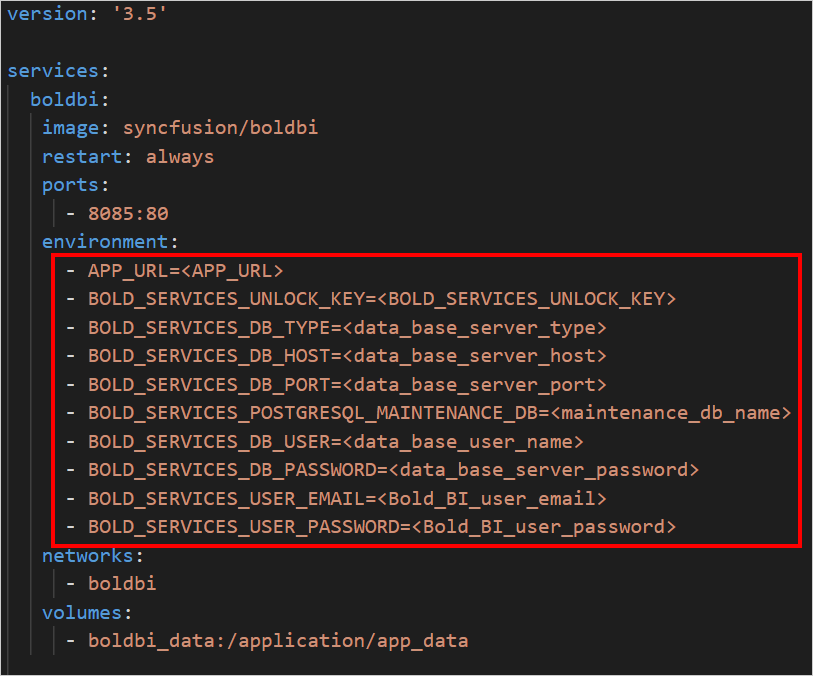
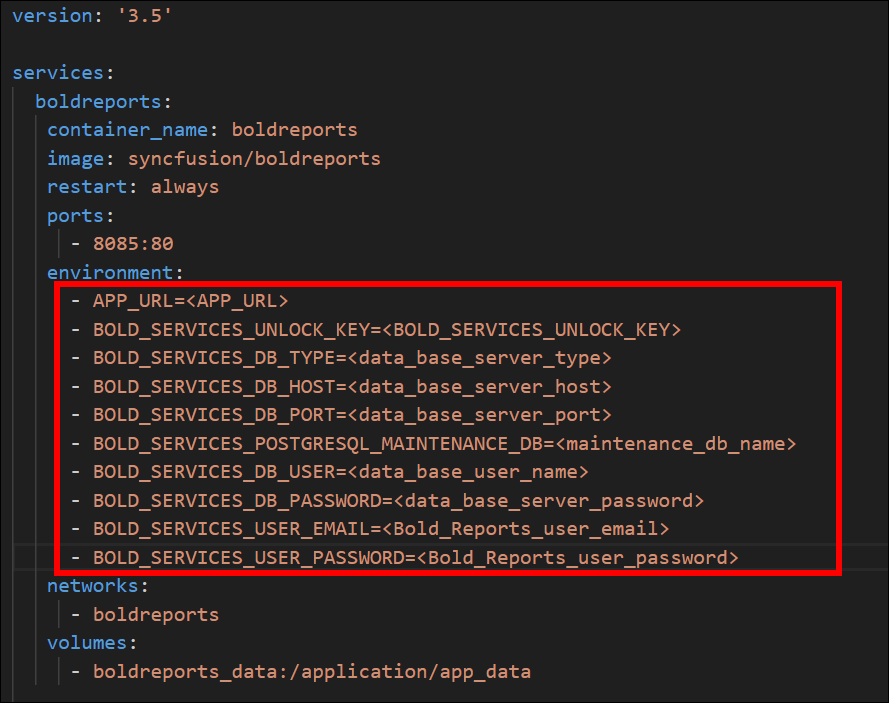
added new md file

Changed region(s): [[0.0, 0.0932, 1.0, 1.0], [0.0, 0.0, 0.2153, 0.0311], [0.984, 0.0, 1.0, 0.0311]]

diff --git a/docs/how-to-deploy-bold-reports-using-existing-db-server.md b/docs/how-to-deploy-bold-reports-using-existing-db-server.md
@@ -4,18 +4,48 @@ In the following section, we are going to run the Bold Reports application by pa
 
 1. Download docker compose file using the following command.
    ```sh
-   curl -o docker-compose.yml "https://raw.githubusercontent.com/boldbi/boldbi-docker/main/deploy/single-container-with-env-variable/docker-compose.yml"
+   curl -o docker-compose.yml "https://raw.githubusercontent.com/boldreports/bold-reports-docker/main/deploy/single-container-with-env-variable/docker-compose.yml"
    ```
 2. Open the docker compose file and fill the mandatory fields - **APP_BASE_URL, Unlock Key** and **Database details**
-   ![docker-compose-database-variable](../docs/images/database-env-value.png)
+   ![docker-compose-database-variable](/docs/images/database-env-value.png)
 
-   APP_BASE_URL Guidance:
+   **APP_BASE_URL Guidance:**
 
    Provide the HTTP scheme for APP_BASE_URL value. For example,
    * Provide the HTTP scheme for APP_BASE_URL value. For example,
       `http://example.com`
       `http://<public_ip_address>`
-   * For `Windows` and `MacOS` use either http://host.docker.internal or http://localhost. Docker Desktop provides host.docker.internal and gateway.docker.internal DNS for communication between docker applications and host machine. Please make sure that the host.docker.internal DNS has your IPv4 address mapped in your hosts file on Windows(C:\Windows\System32\drivers\etc\hosts).
+   * For `Windows` and `MacOS` use either http://host.docker.internal or http://localhost. Docker Desktop provides `host.docker.internal` and `gateway.docker.internal` DNS for communication between docker applications and host machine. Please make sure that the host.docker.internal DNS has your IPv4 address mapped in your hosts file on Windows(C:\Windows\System32\drivers\etc\hosts).
+   * For `Linux` use the Machine Public IP address as the value for APP_URL with the HTTP scheme.
 
+   **Environment variable Usage:**
 
+   | Name               | Required    | Description |
+   | -------------      | ------------- | ------------- |
+   | `BOLD_SERVICES_UNLOCK_KEY`                 | Yes    | License key for activating Bold Reports. Please refer to this document to download the key.<br />If you don't have the download key option, please create a support ticket here.|
+   | `BOLD_SERVICES_DB_TYPE`                    | Yes    | Type of database server can be used for configuring Bold Reports.<br /><br /The following DB types are accepted:<br />1. mssql – Microsoft SQL Server/Azure SQL Database<br />2. postgresql – PostgreSQL Server<br />3. mysql – MySQL/MariaDB Server|
+   | `BOLD_SERVICES_DB_HOST`                    | Yes    | Name of the Database Server|
+   | `BOLD_SERVICES_DB_PORT`                    | Yes    | The system will use the following default port numbers based on the database server type.<br />PostgrSQL – 5234<br /><MySQL -3306><br /><br />Please specify the port number for your database server if it is configured on a different port.<br /><br />For MS SQL Server, this parameter is not necessary.|
+   | `BOLD_SERVICES_DB_USER`                    | Yes    | Username for the database server <br /><br />Please refer to this documentation for information on the user's permissions.|
+   | `BOLD_SERVICES_DB_PASSWORD`                | Yes    | The database user's password|
+   | `BOLD_SERVICES_DB_NAME`                    | No     | 	If the database name is not specified, the system will create a new database called bold services.<br /><br />If you specify a database name, it should already exist on the server.|
+   | `BOLD_SERVICES_POSTGRESQL_MAINTENANCE_DB`  | Yes    | For PostgreSQL DB Servers, this is an optional parameter.<br />The system will use the database name `postgres` by default.<br />If your database server uses a different default database, please provide it here.|
+   | `BOLD_SERVICES_DB_ADDITIONAL_PARAMETERS`   | No     | If your database server requires additional connection string parameters, include them here.<br /><br />Connection string parameters can be found in the official document.<br />My SQL: https://dev.mysql.com/doc/connector-net/en/connector-net-8-0-connection-options.html<br />PostgreSQL: https://www.npgsql.org/doc/connection-string-parameters.html<br />MS SQL: https://docs.microsoft.com/en-us/dotnet/api/system.data.sqlclient.sqlconnection.connectionstring<br /><br /><b>Note:</b> A semicolon(;) should be used to separate multiple parameters.|
+   | `BOLD_SERVICES_USER_EMAIL`                 | Yes     | It should be a valid email.|
+   | `BOLD_SERVICES_USER_PASSWORD`              | Yes     | It should meet our password requirements.<br /><br /><b>Note:</b>Password must meet the following requirements. It must contain at least 6 characters, 1 uppercase character, 1 lowercase character, 1 numeric character, 1 special character|
 
+3. Run docker compose up command.
+   ```sh
+   docker-compose up -d
+   ```
+   ![docker-compose-up](./images/docker-compose-up.png)
+   > **Note:** The docker volumes `boldservices_data` and `db_data` persists data of Bold Reports and PostgreSQL respectively. Learn more about docker volumes
+
+4. After running the command, access the Bold Reports App by entering APP_URL in a browser.At this point, Bold Reports should be running in `<app_base_url>:8085` (as appropriate)
+   ![docker-startup](../docs/images/docker-startup.png)
+   > **Note:** The BoldBI site is not immediately available on port 8085 because the containers are still being initialized and may take a couple of minutes for the first load.
+
+## Shutdown and Cleanup
+The command `docker-compose down` removes the containers and default network, but preserves the volumes of Bold Reports and PostgreSQL.
+
+The command `docker-compose down --volumes` removes the containers, default network, and all the volumes.

diff --git a/README.md b/README.md
@@ -61,10 +61,9 @@ The above Bold Reports image can be deployed using Docker or Docker Compose. In 
     ![docker-compose-variable](docs/images/docker-compose-variable.png)
   
   3. Run the command below. This command will start the Bold Reports and Postgres SQL containers and display the Bold Reports logs to provide information about the installation status of the Bold Reports application.
-    ```sh
-    docker-compose up -d; docker-compose logs -f boldreports
-    ```
-    
+   ```sh
+   docker-compose up -d; docker-compose logs -f boldreports
+   ```
    ![docker-compose-up](docs/images/docker-compose-up.png)
 
   4. Now, access the Bold Reports application by entering the URL as http://localhost:8085 or http://host-ip:8085 in the browser. When opening this URL in the browser, it will configure the application startup in the background and display the page below within a few seconds. The default port number mentioned in the compose file is 8085. If you are making changes to the port number, then you need to use that port number for accessing the Bold Reports application.
@@ -72,13 +71,14 @@ The above Bold Reports image can be deployed using Docker or Docker Compose. In 
   
 # Upgrade Bold Reports
 
-If you are upgrading Bold Reports to 5.2.26, please follow the steps in this [link](/docs/upgrade.md).
+If you are upgrading Bold Reports to 5.3.8, please follow the steps in this [link](/docs/upgrade.md).
 
-# How to Deploy Bold BI using Advanced Configuration?
+# How to Deploy Bold Reports using Advanced Configuration?
 
 In this section, you will learn how to run the Bold Reports application using advanced configurations such as configuring Bold Reports using an existing DB server, using a host directory as a persistent volume, configuring startup manually, configuring an SSL certificate, and running a multi-container Reports application.
 
-1. How to deploy Bold Reports using existing DB server? (/deploy/multiple-container/)
+1. [How to deploy Bold Reports using existing DB server?](./docs/how-to-deploy-bold-reports-using-existing-db-server.md)
+
 
 # License
 
